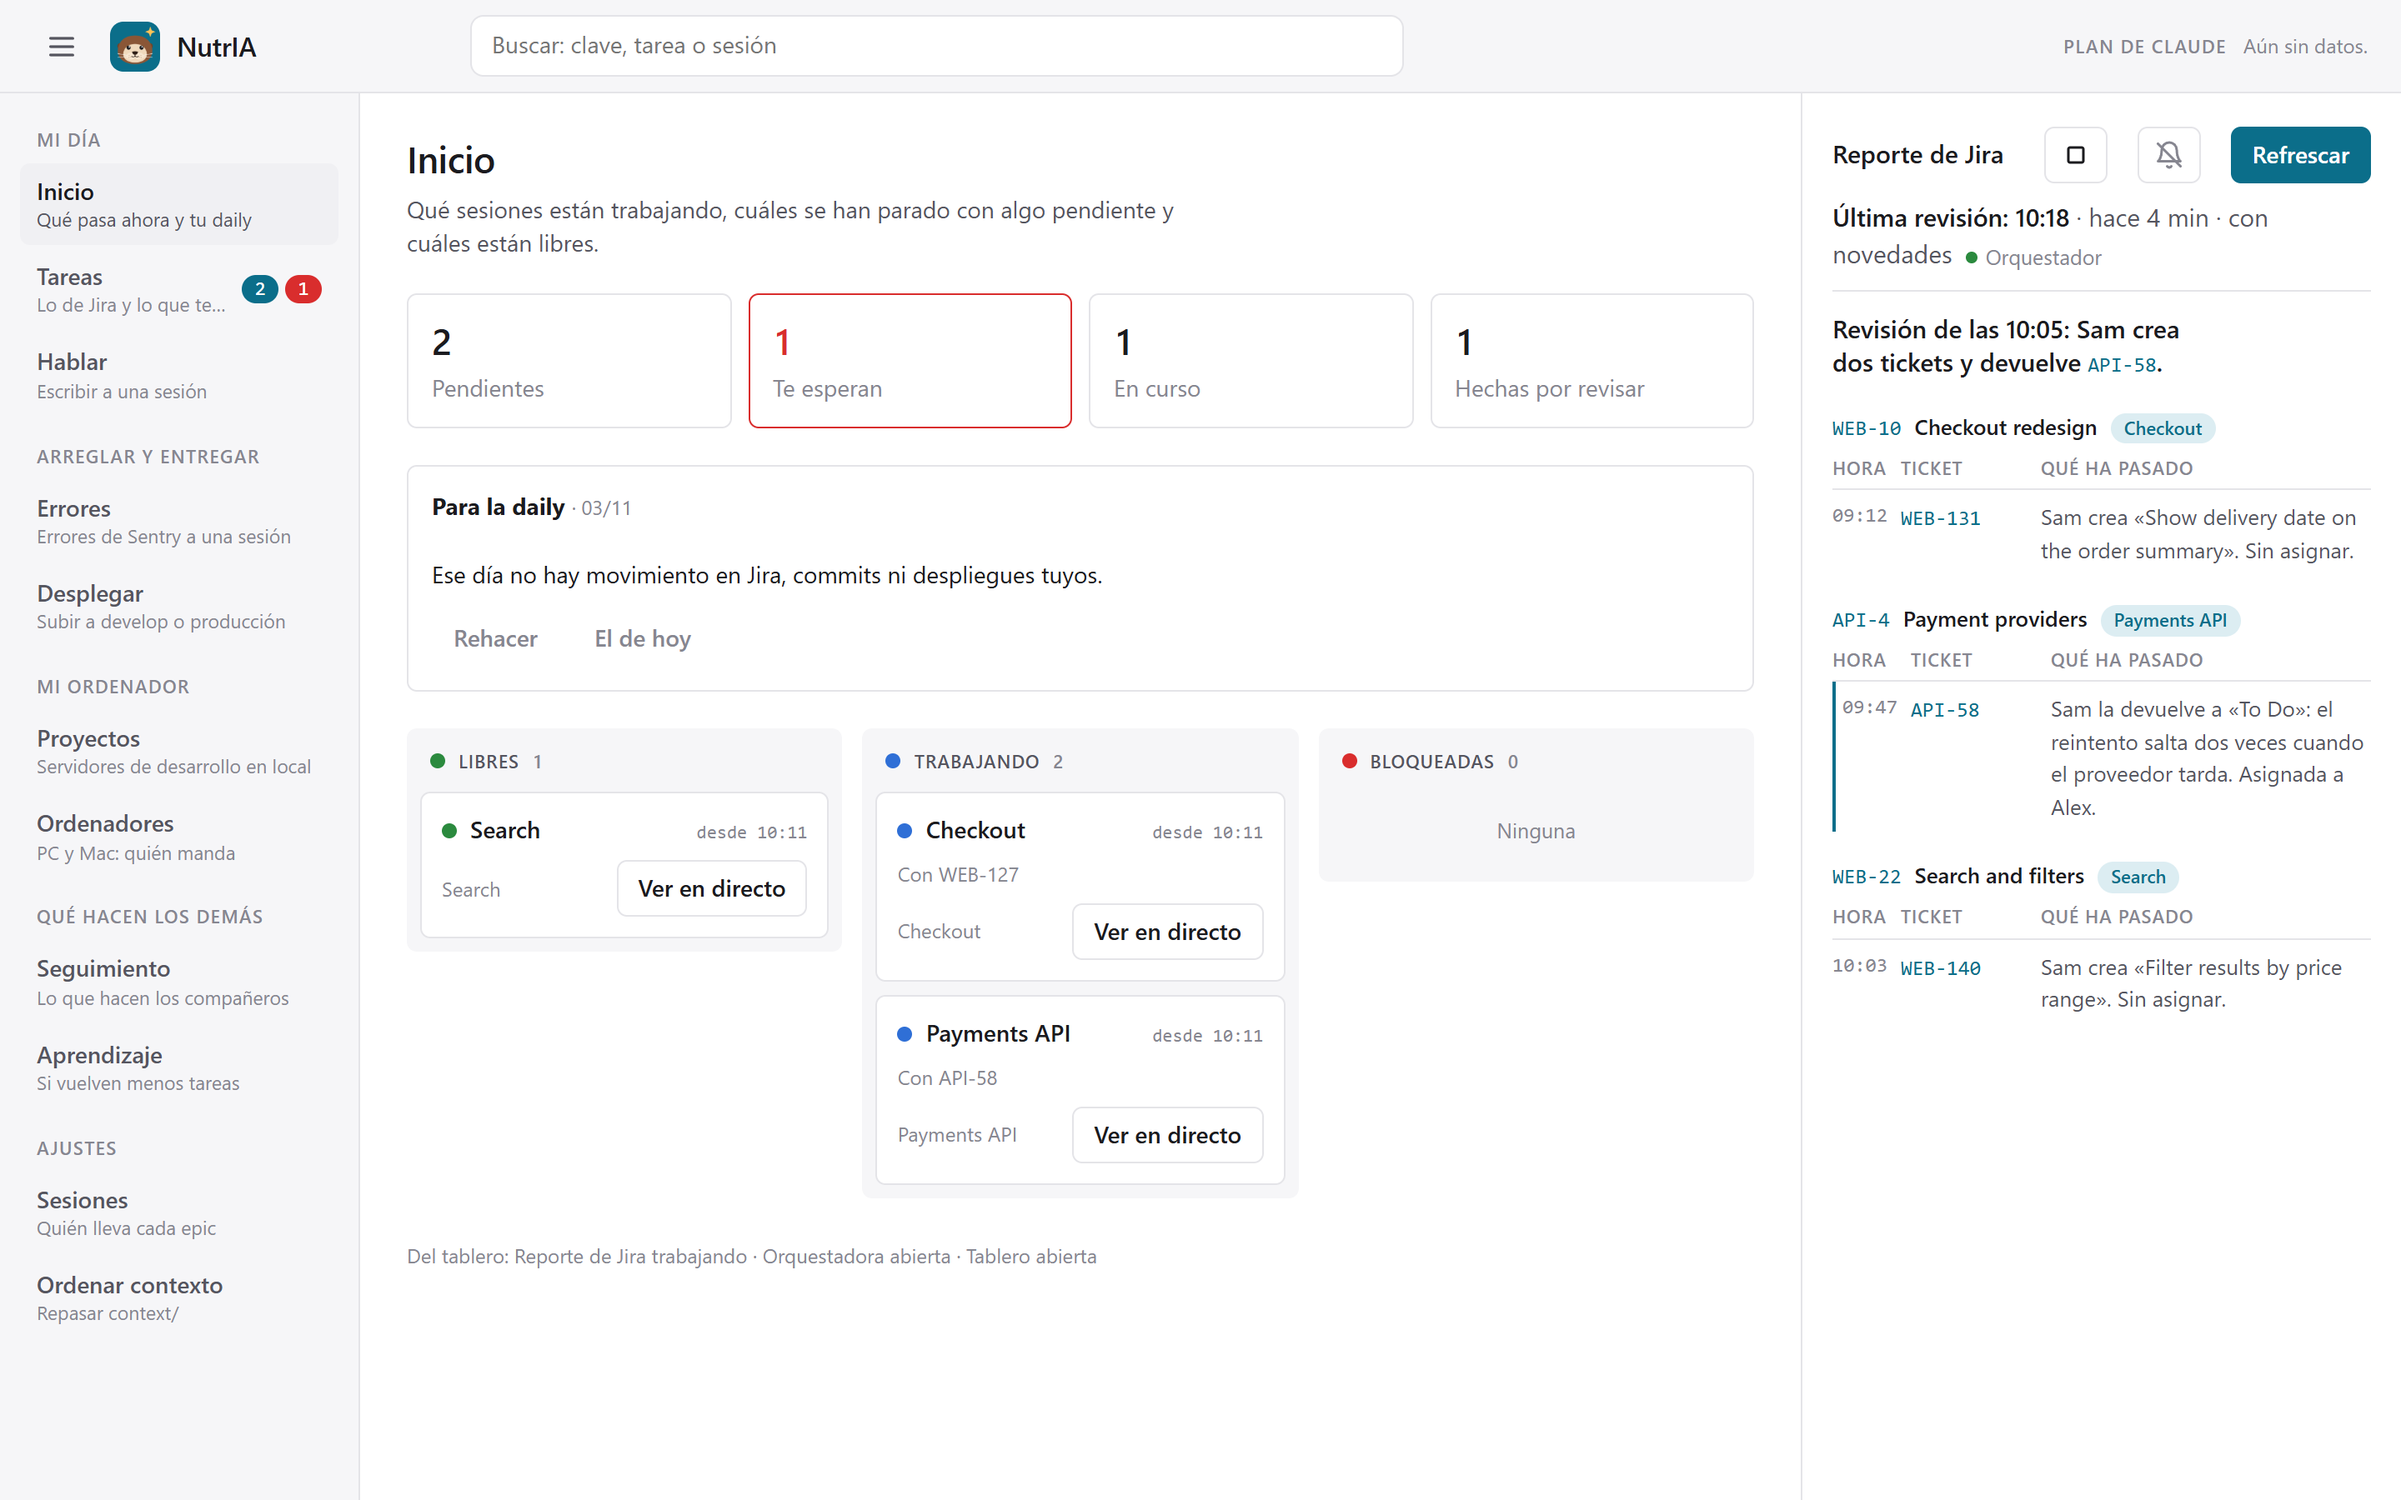
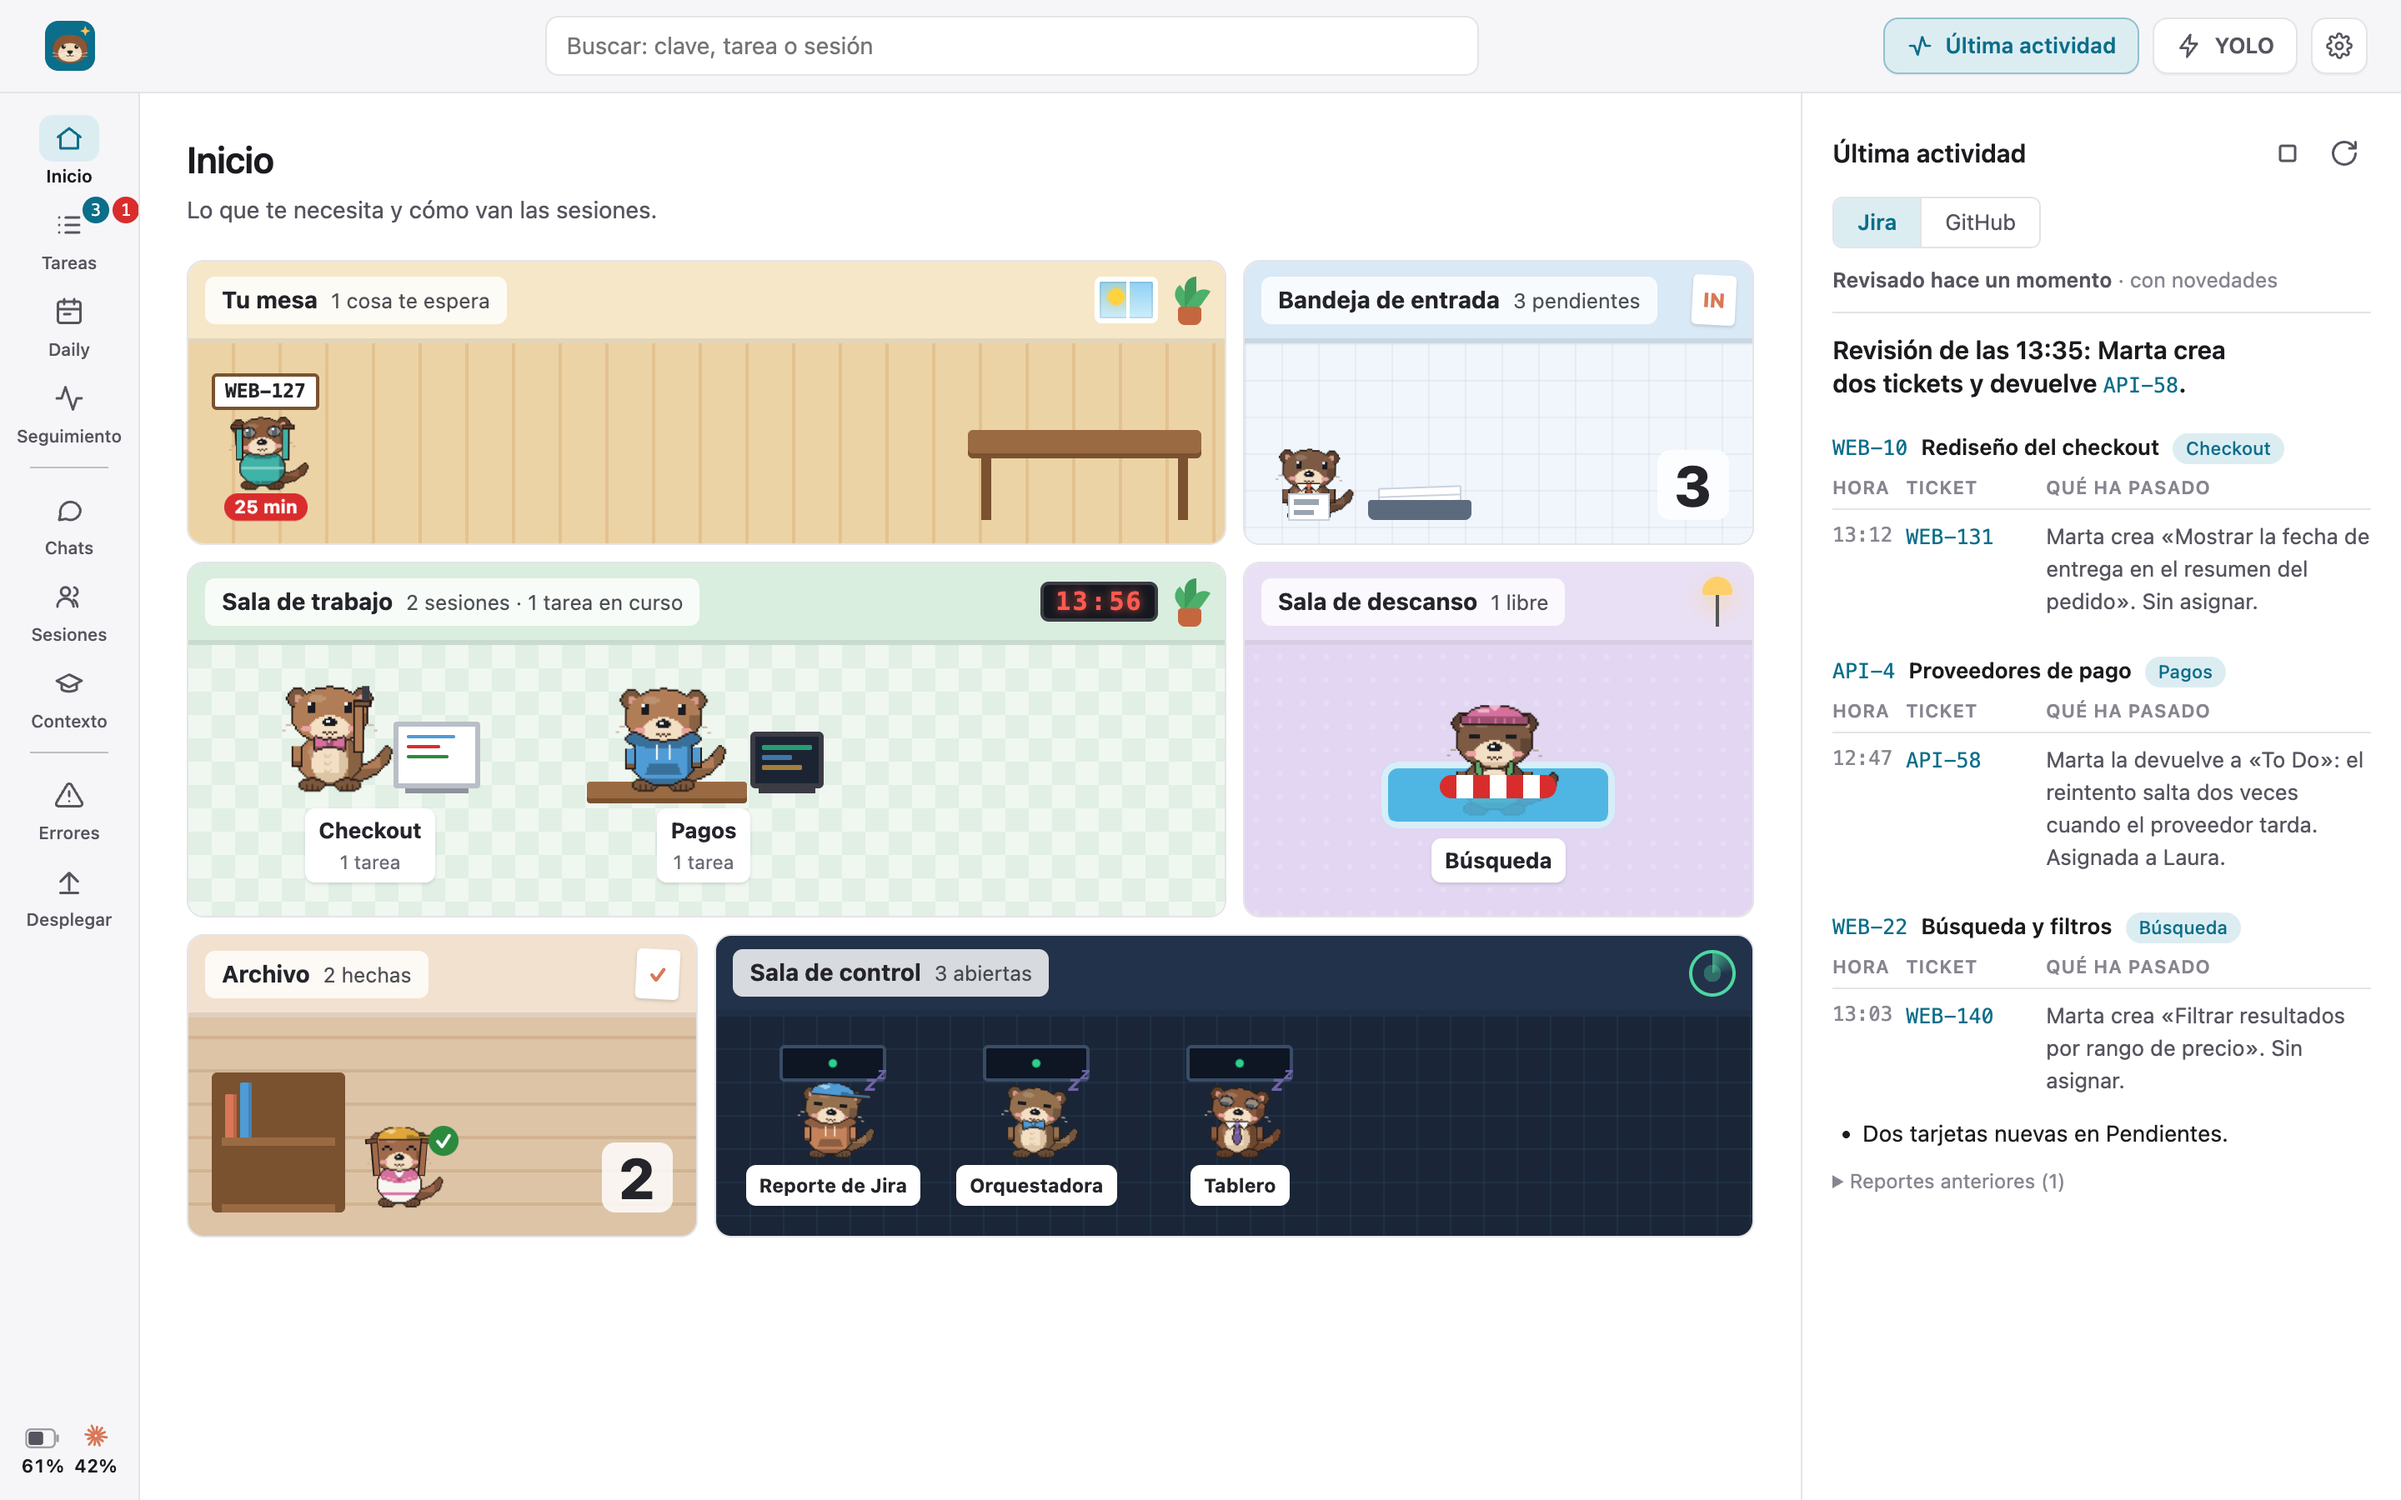
README: refresh the screenshots for the new top bar and sidebar

diff --git a/README.md b/README.md
@@ -2,7 +2,7 @@
 
 A local control tower for running several [Claude Code](https://claude.com/claude-code) sessions on a Jira backlog. It reads Jira, turns new and returned tickets into cards, and lets you decide from your desktop or your phone which AI session works on each one.
 
-![Home: counts of tasks by state, which sessions are working, waiting or blocked, and the latest Jira report](docs/home.png)
+![Home: what is waiting for you, the inbox of new cards, which sessions are working or free, the finished tasks and the fixed sessions, with the latest Jira activity on the right and the battery and Claude quota at the bottom of the sidebar](docs/home.png)
 
 ## Why
 
@@ -34,7 +34,7 @@ It also has:
 
 ![Talk: the session list and the live terminal of a session fixing a ticket that came back from review](docs/talk.png)
 
-<img src="docs/phone.png" alt="Talk on the phone: the same live terminal, with the session picker and keys for Esc, Tab and the arrows" width="300">
+<img src="docs/phone.png" alt="Talk on the phone: the same live terminal, with the session picker, the battery and Claude quota in the top bar, and keys for Esc, Tab and the arrows" width="300">
 
 Everything runs on your machines: one small binary (`tower`, written in Rust) serving on `127.0.0.1`, a SQLite file and your Jira API token in a local `.env`. Nothing goes anywhere except your own Jira, and Sentry, GitHub and AWS if you turn them on. The interface is in Spanish.
 
